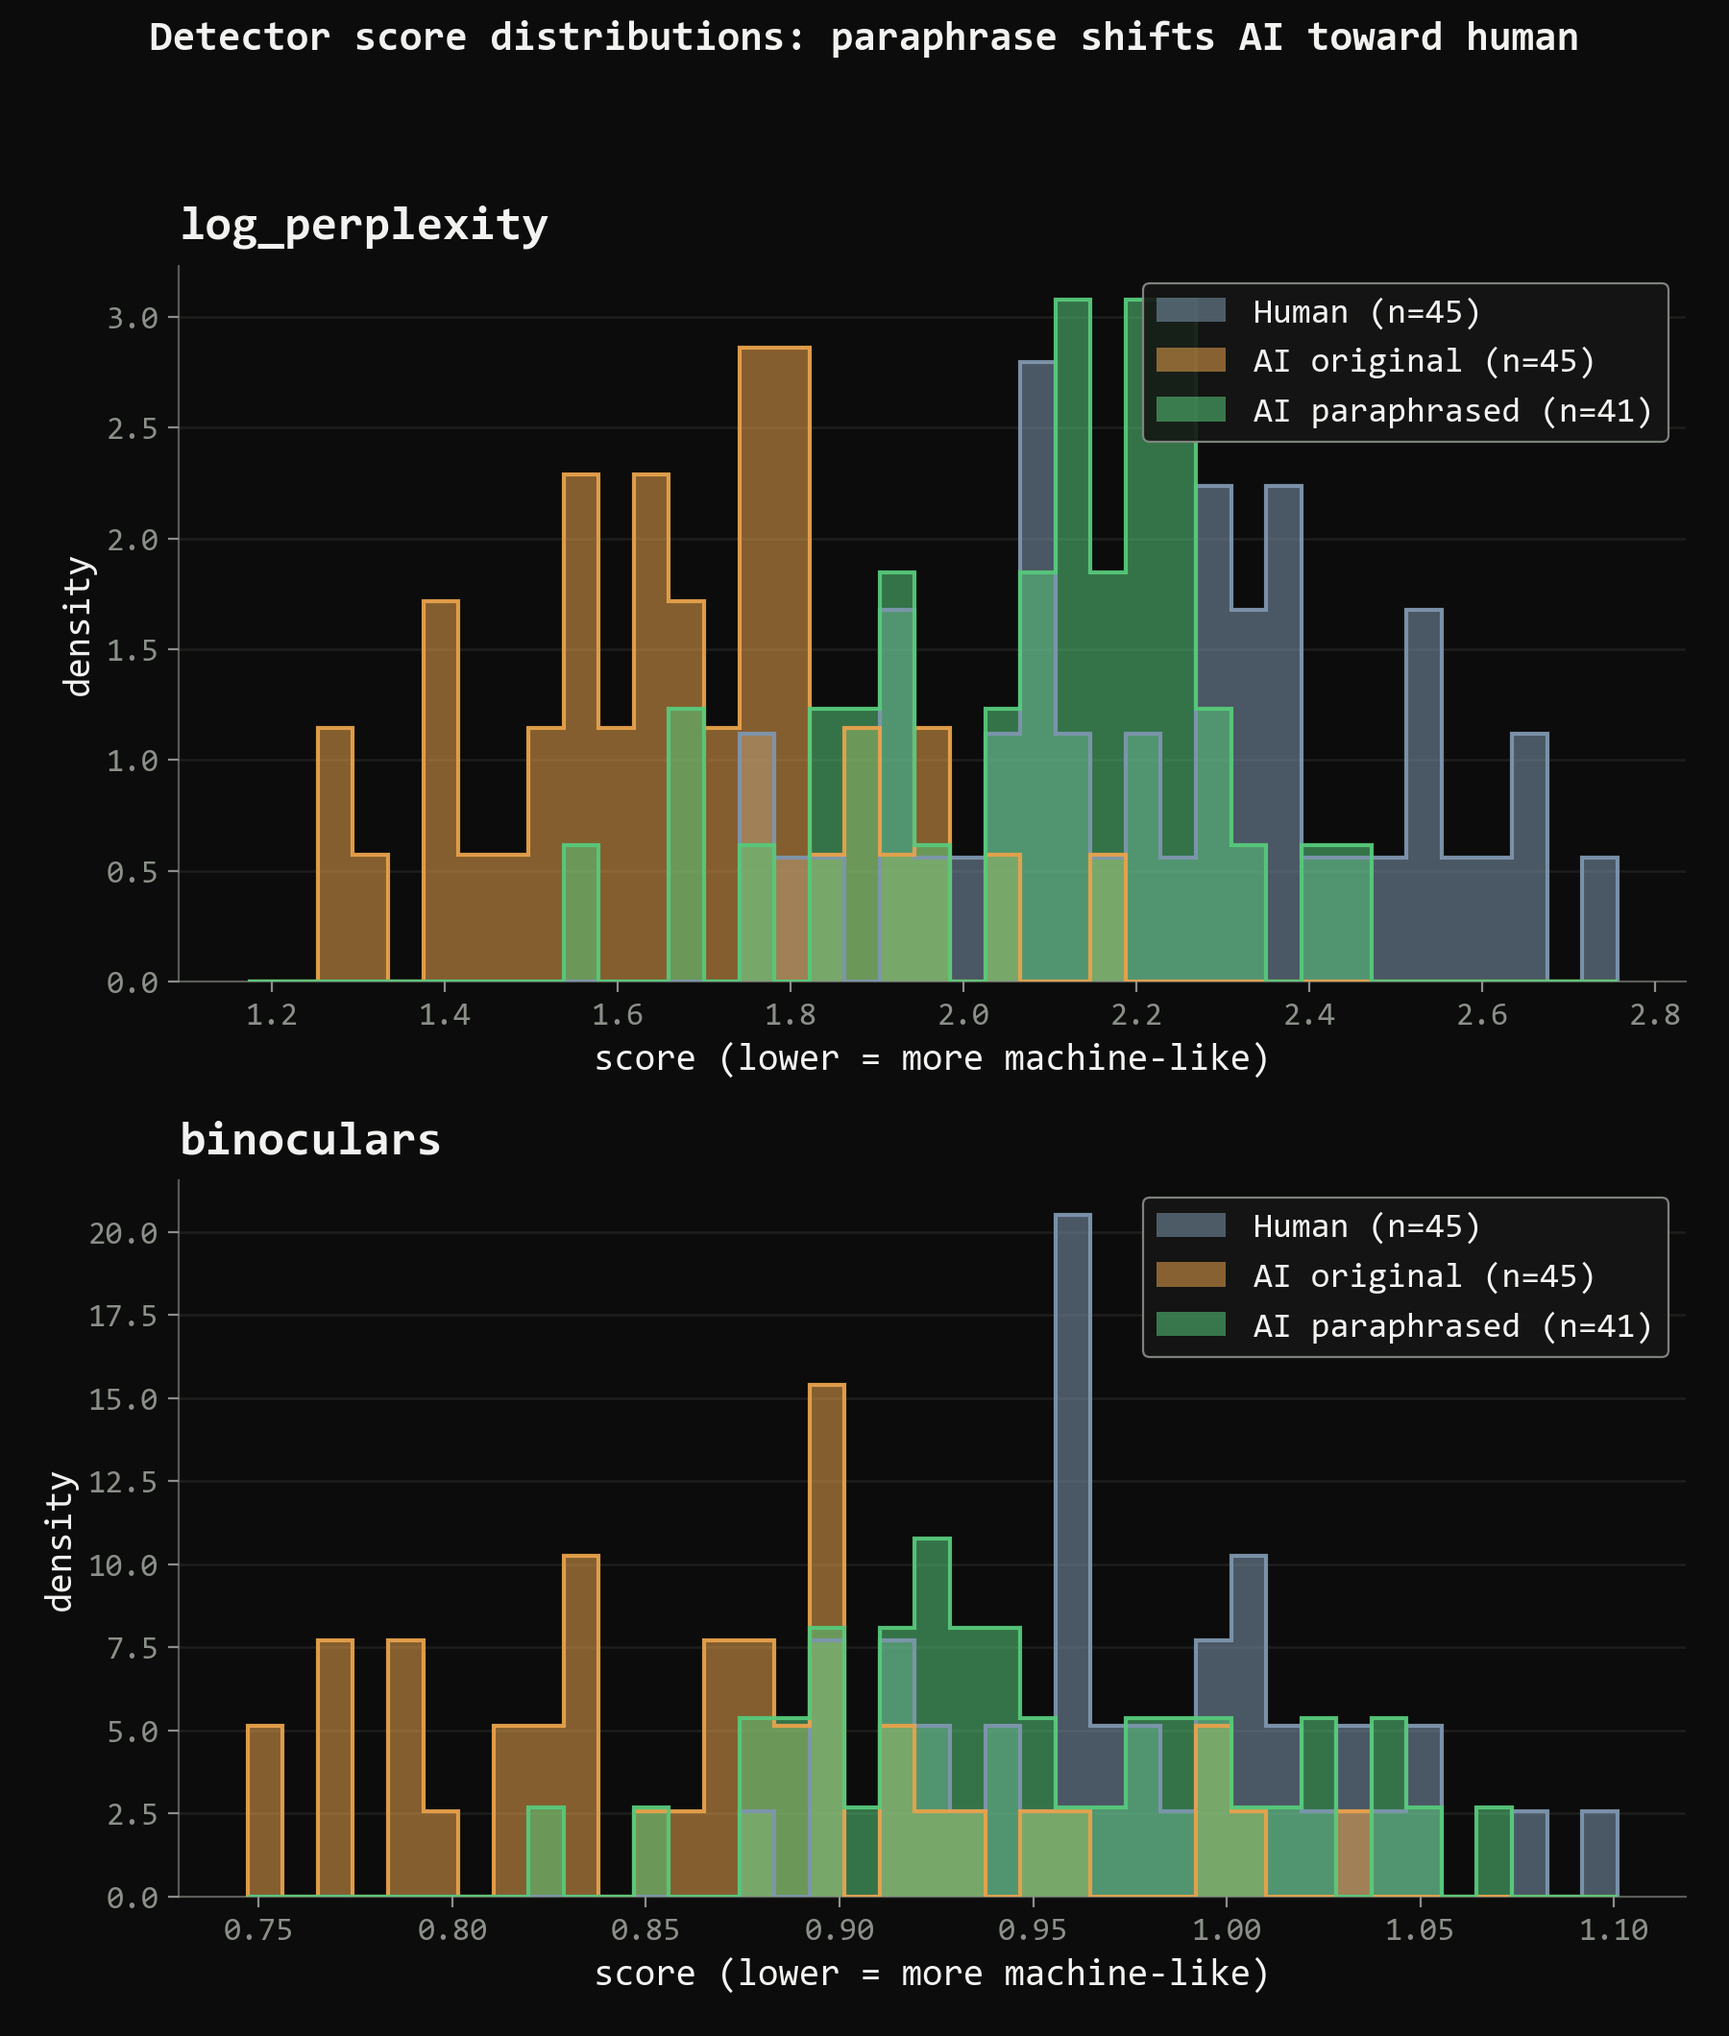
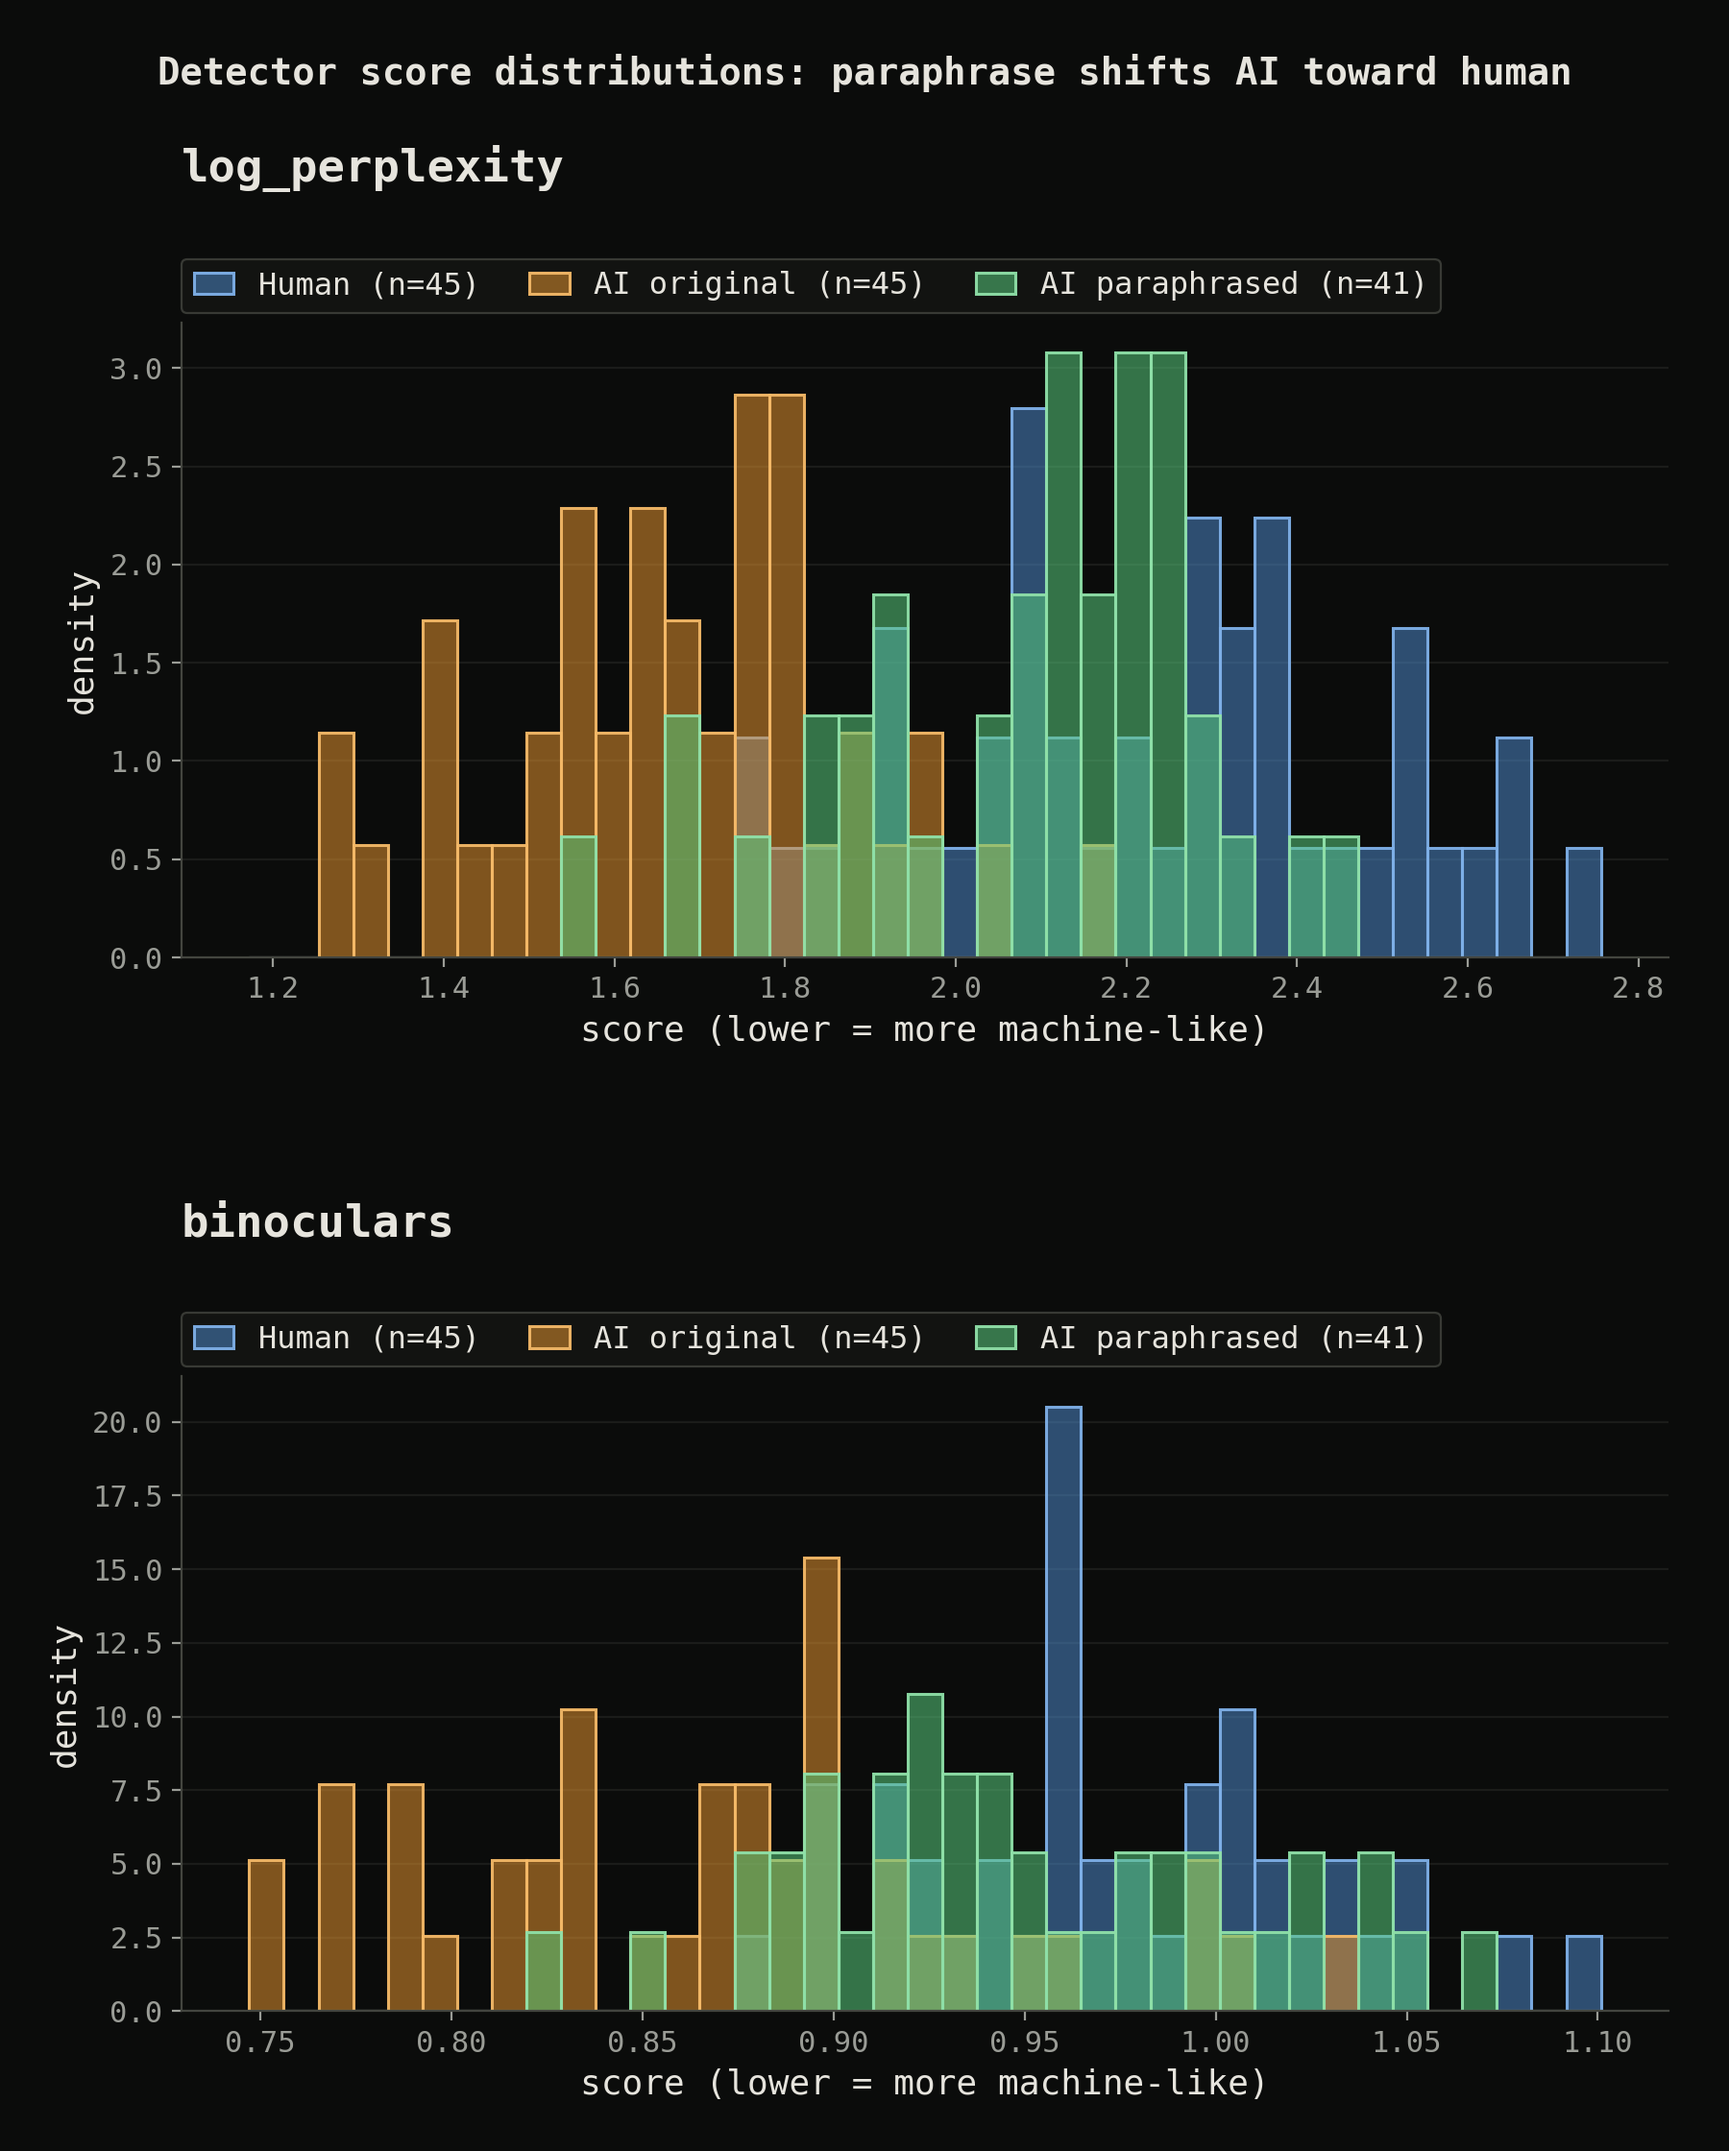
Polish 2: chart colors match caption, CV linkedin text, 404 numeral, hero seam, moderate 1st
From the verification critique (real items only; skipped the 'Crypts' misread and
the direction-level 'terminal genre is generic' note):
- Chart: recolored to match the essay caption exactly (Human blue, AI original
  orange, AI paraphrased green) and moved the legends above the axes so they no
  longer overlap the bars; regenerated from the real data, n=45/45/41 unchanged.
- CV: LinkedIn visible text cleaned to in/joakim-nordheim-larssen (href keeps the id).
- 404: lightened the ghost 404 numeral so it reads as intentional, not a broken asset.
- Home hero: tagline set in mono to match the identity line (removes the mono/sans
  seam one line apart); whoami body prose stays sans.
- Home + CV: reduced the display '1st' so it no longer dwarfs the name (still the
  green signature moment).
CV prose was already sans (the 'wall-to-wall mono' critique was a misread). No essay
prose touched; zero em dashes.

Claude-Session: https://claude.ai/code/session_014Kr17kxxmAu6Srf1vrTajC

diff --git a/cv/index.html b/cv/index.html
@@ -18,6 +18,7 @@
 <meta name="theme-color" content="#0D1011">
 <meta name="description" content="Curriculum vitae of Joakim Nordheim Larssen, security engineer and builder in Oslo.">
 <title>Joakim Nordheim Larssen, CV</title>
+<link rel="icon" type="image/svg+xml" href="/favicon.svg">
 <link rel="preconnect" href="https://fonts.googleapis.com">
 <link rel="preconnect" href="https://fonts.gstatic.com" crossorigin>
 <link href="https://fonts.googleapis.com/css2?family=IBM+Plex+Sans:ital,wght@0,400;0,500;0,600;1,400&amp;family=JetBrains+Mono:wght@400;500;600;700&amp;display=swap" rel="stylesheet">
@@ -280,7 +281,7 @@ main > section + section{ border-top:1px solid var(--hair) }
   padding:8px 0 30px;
 }
 .win-num{
-  font-size:clamp(2.75rem, 1.6rem + 3.8vw, 5rem);
+  font-size:clamp(1.85rem, 1.05rem + 2.55vw, 3.35rem);
   font-weight:700; line-height:1;
   letter-spacing:-.015em;
   color:var(--acc);
@@ -730,7 +731,7 @@ main > section + section{ border-top:1px solid var(--hair) }
           <span class="sep" aria-hidden="true">&middot;</span>
           <a href="https://github.com/JoakimLarssen">github.com/JoakimLarssen</a>
           <span class="sep" aria-hidden="true">&middot;</span>
-          <a href="https://www.linkedin.com/in/joakim-nordheim-larssen-772614223">in/joakim-nordheim-larssen-772614223</a>
+          <a href="https://www.linkedin.com/in/joakim-nordheim-larssen-772614223">in/joakim-nordheim-larssen</a>
           <span class="sep" aria-hidden="true">&middot;</span>
           <a href="/">nordheimlarssen.no</a>
         </p>

diff --git a/index.html b/index.html
@@ -235,7 +235,7 @@ main > section + section{ border-top:1px solid var(--hair) }
 }
 .tagline{
   margin-top:8px;
-  font:400 1.0625rem/1.6 var(--sans);
+  font:400 1.0625rem/1.6 var(--mono);
   color:var(--fg);
   max-width:52ch;
 }
@@ -557,7 +557,7 @@ main > section + section{ border-top:1px solid var(--hair) }
   padding:8px 0 34px;
 }
 .win-num{
-  font-size:var(--t-display); font-weight:700; line-height:1;
+  font-size:clamp(1.85rem, 1.05rem + 2.55vw, 3.35rem); font-weight:700; line-height:1;
   letter-spacing:-.015em;
   color:var(--acc);
 }

diff --git a/404.html b/404.html
@@ -129,7 +129,7 @@ main section{ width:100%; padding: clamp(48px, 9vh, 104px) 0 }
   width:clamp(230px, 42vw, 468px);
   height:auto;
   margin:0 auto;
-  color:var(--ghost);
+  color:#4A4F4C;
 }
 
 .nf-line{
